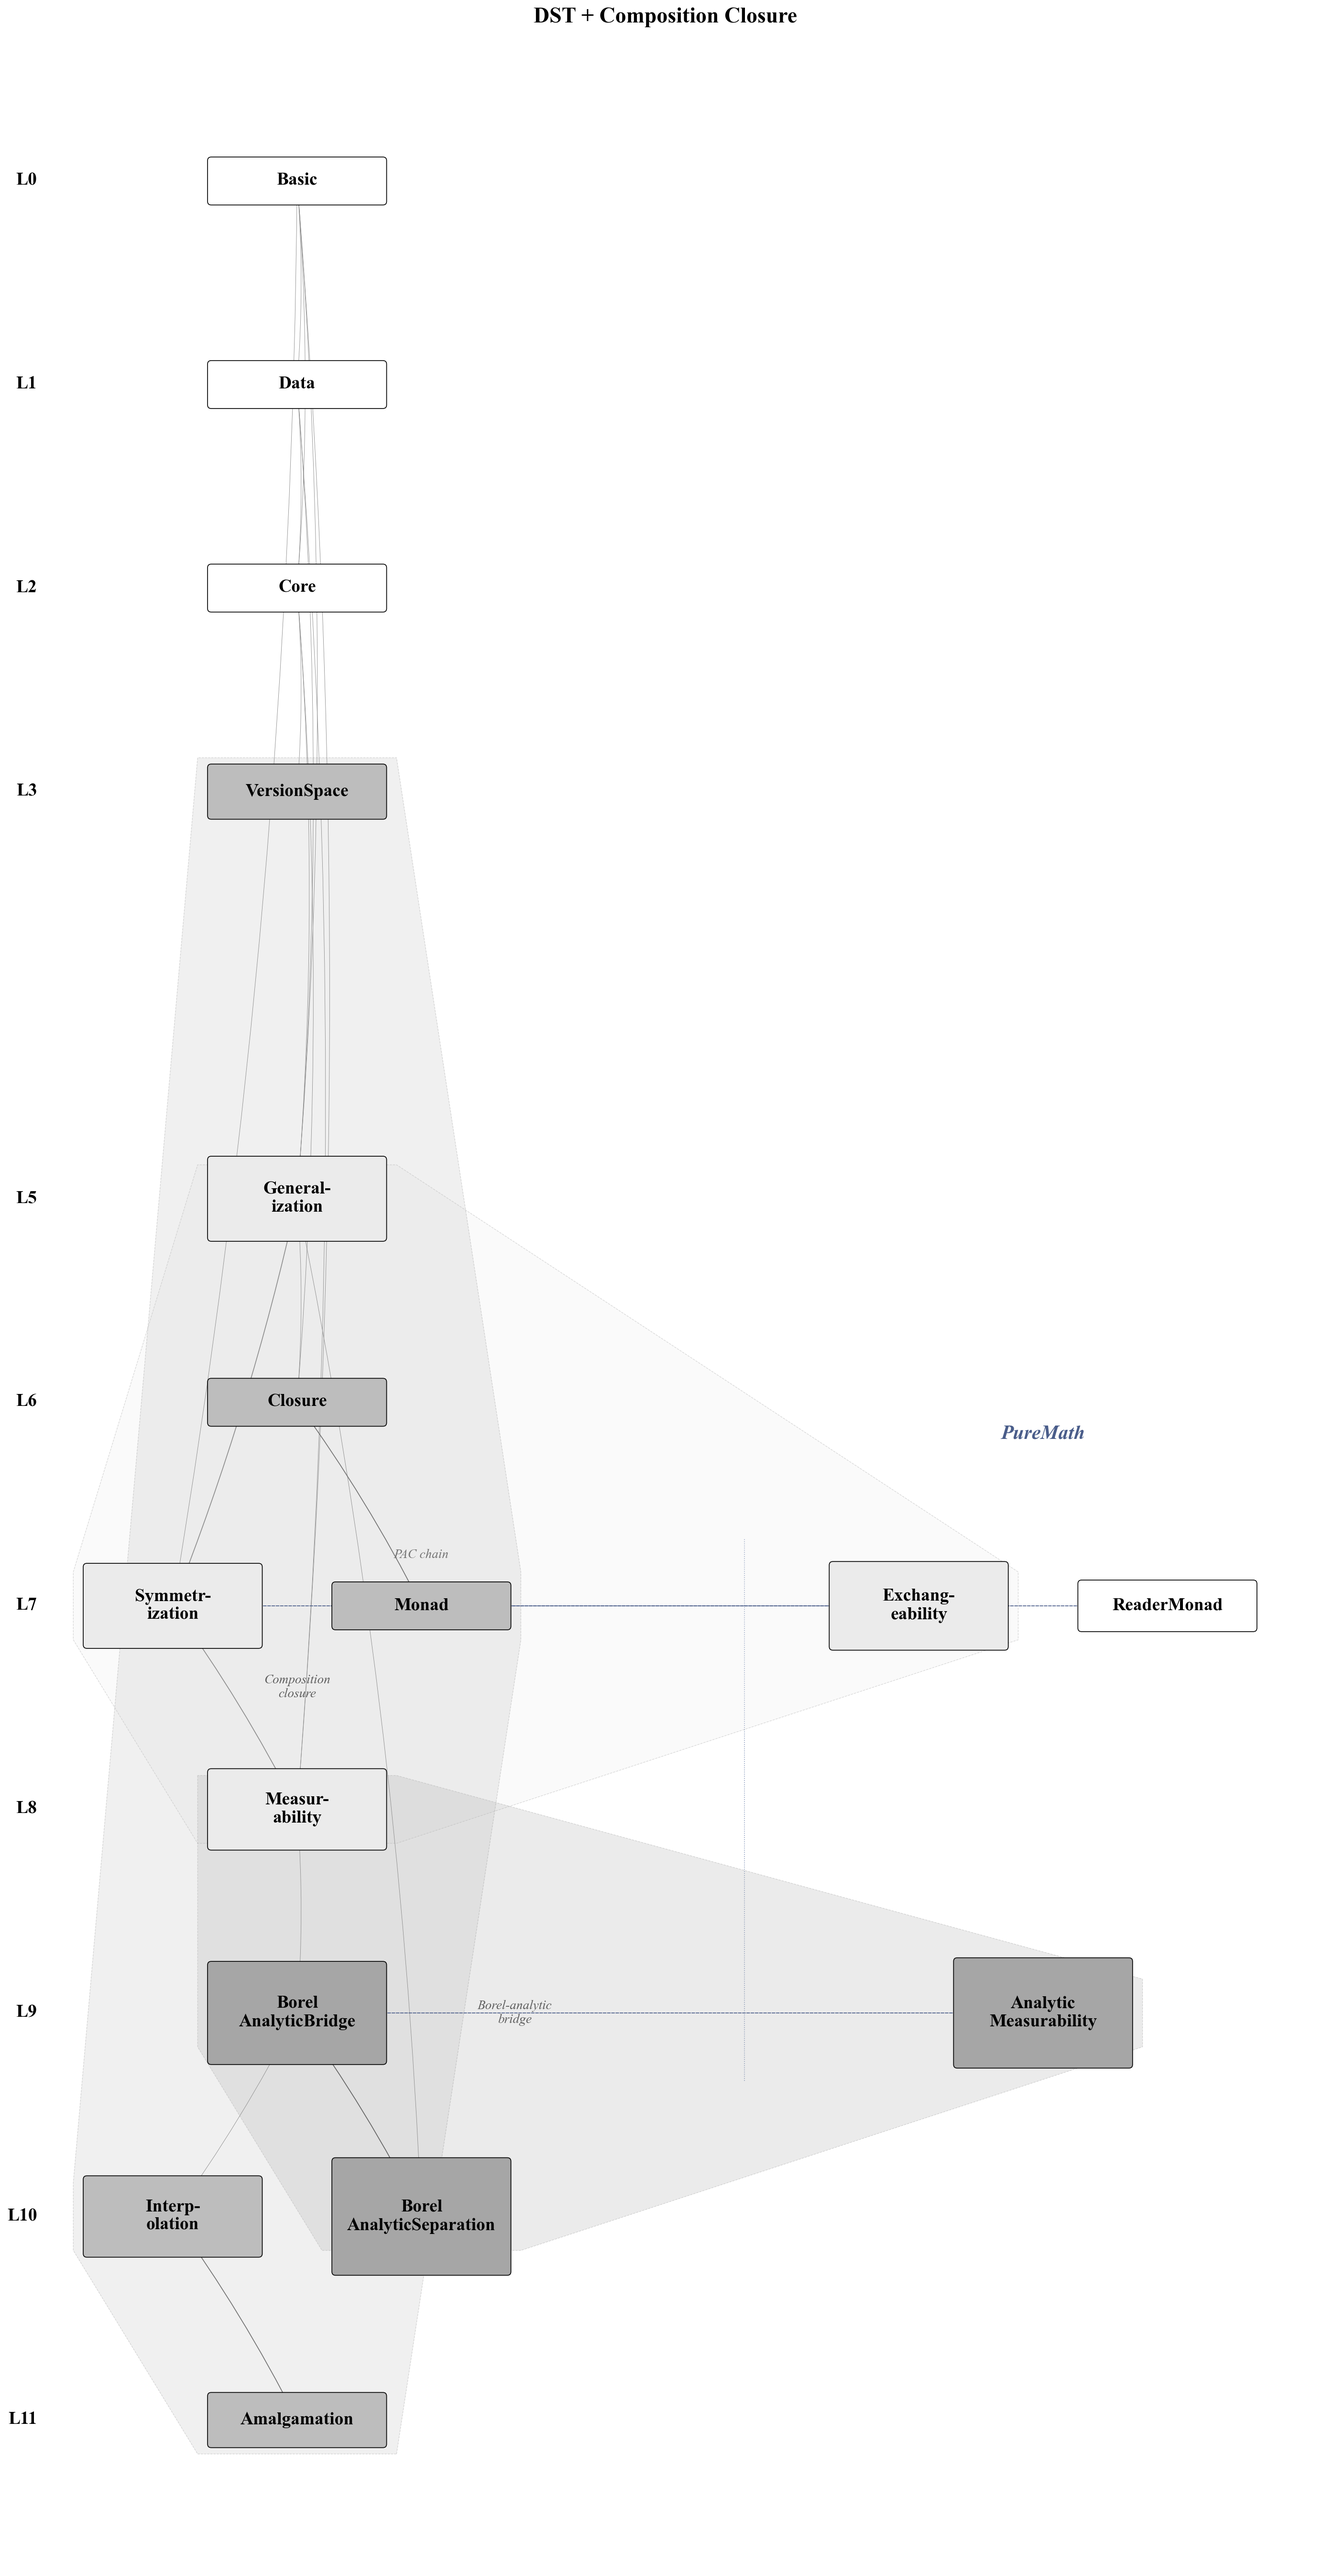
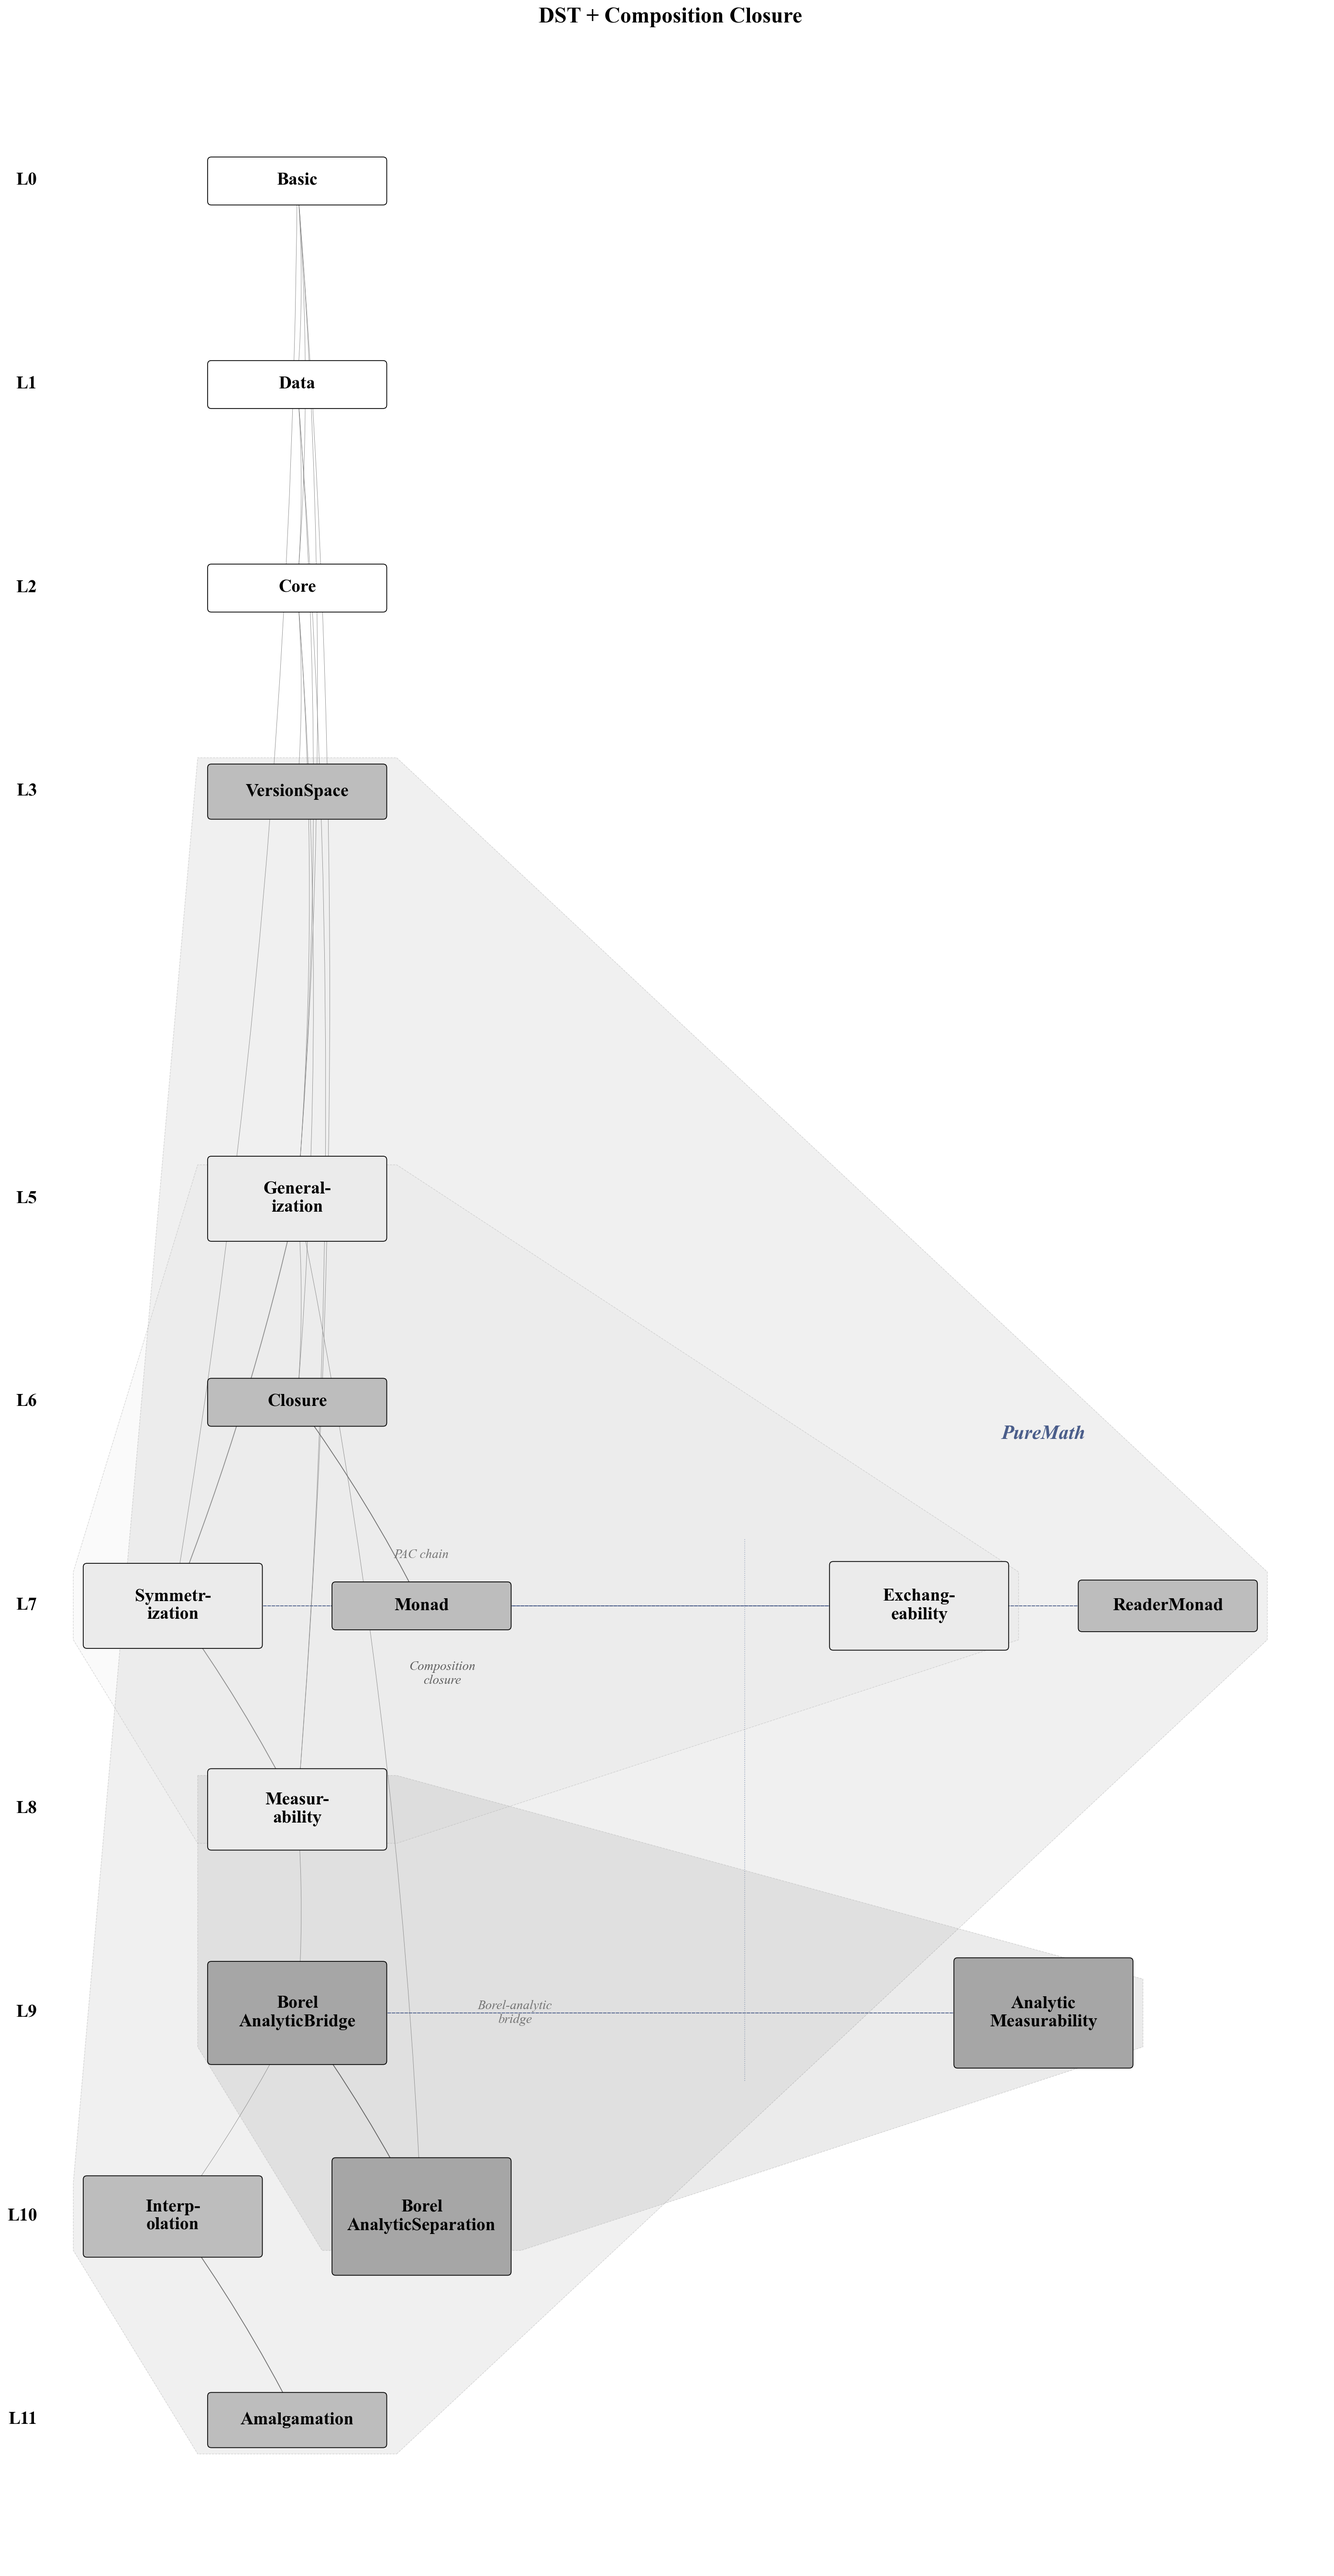
Add Compression hyperedge to hypergraph (6 modules)
New hyperedge: Compression (Compression.lean, FiniteSupportUC, DualVC,
ApproxMinimax, FiniteVCApprox, BinaryMatrix).
Fixed stale MathLib.ReaderMonad -> PureMath.ReaderMonad reference.
Now 8 hyperedges total: PAC chain, Borel-analytic bridge, Online,
Gold, PAC-Bayes, Composition closure, Compression.

diff --git a/scripts/generate_hypergraph.py b/scripts/generate_hypergraph.py
@@ -203,7 +203,12 @@ HYPEREDGES = {
     "Composition\nclosure": {
         "modules": ["Complexity.Interpolation", "Complexity.Amalgamation",
                      "Learner.Closure", "Learner.Monad",
-                     "Learner.VersionSpace", "MathLib.ReaderMonad"],
+                     "Learner.VersionSpace", "PureMath.ReaderMonad"],
+    },
+    "Compression": {
+        "modules": ["Complexity.Compression", "Complexity.FiniteSupportUC",
+                     "Complexity.DualVC", "PureMath.ApproxMinimax",
+                     "PureMath.FiniteVCApprox", "PureMath.BinaryMatrix"],
     },
 }
 
